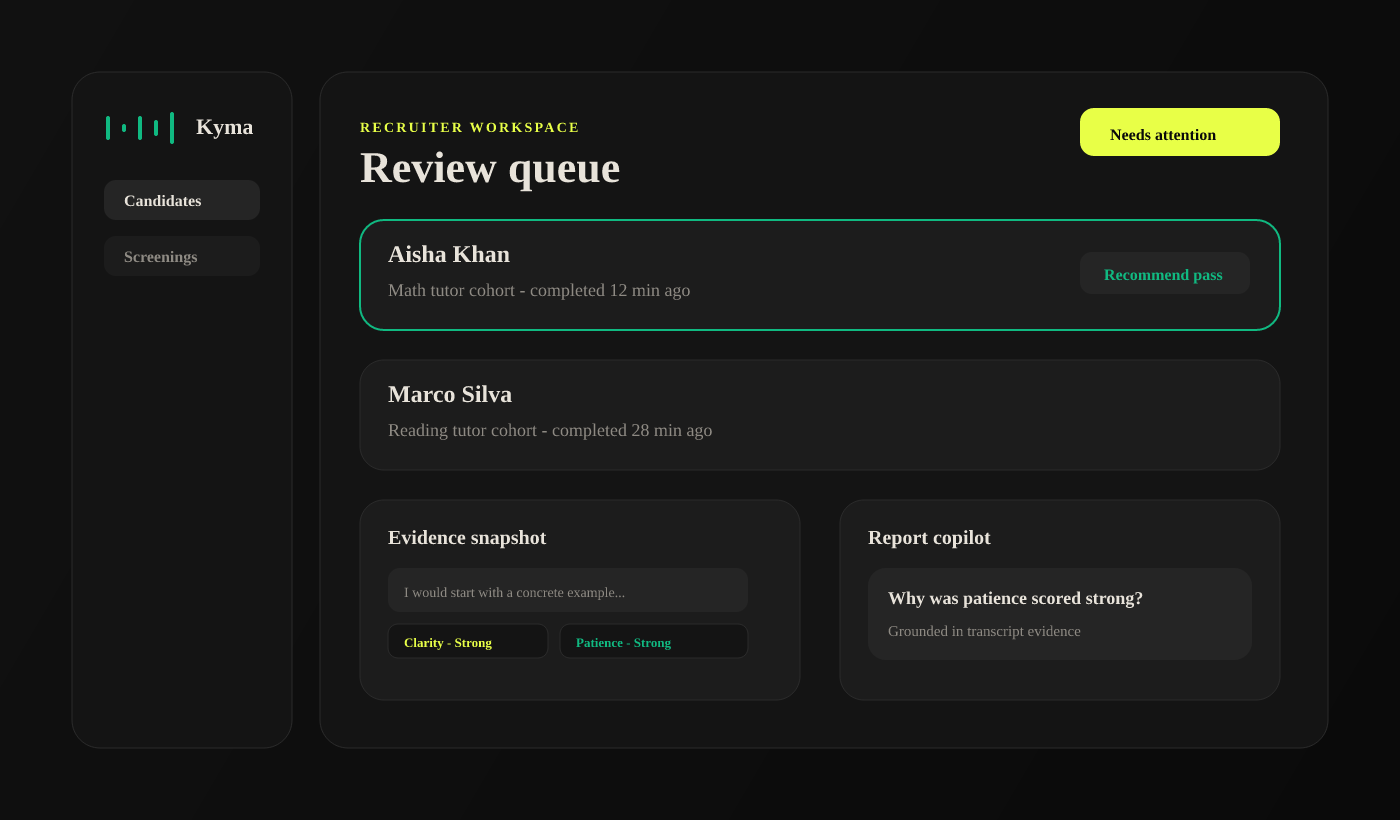
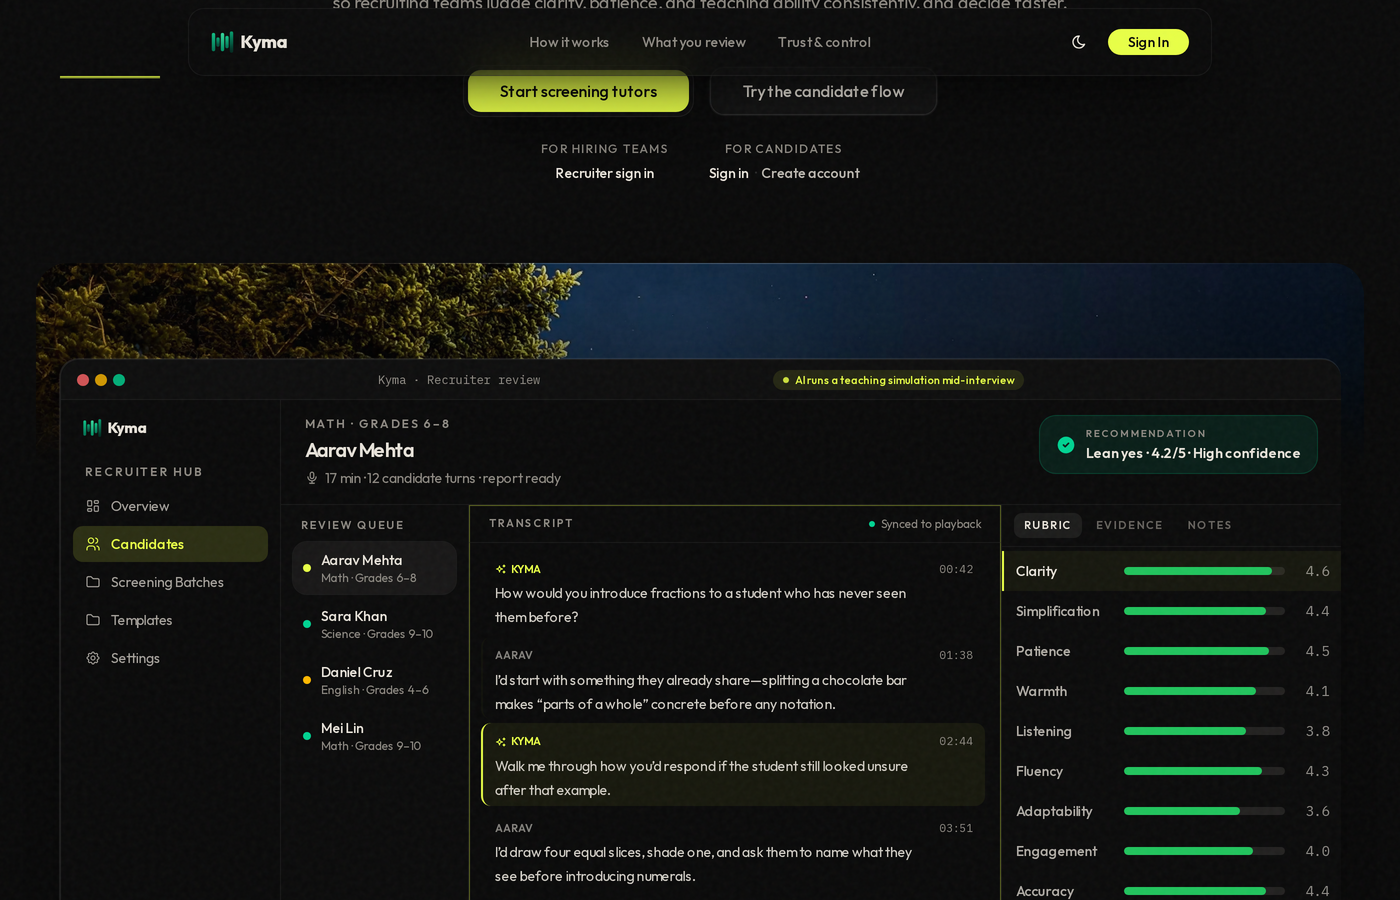
docs(readme): replace generated previews with production screenshots
Capture real UI from kyma.kitsunelabs.xyz via Playwright, remove fake
readme SVG sources, and drop README PNG generation from brand:export.

diff --git a/scripts/export-brand-pngs.ts b/scripts/export-brand-pngs.ts
@@ -1,6 +1,6 @@
 #!/usr/bin/env bun
 /**
- * Export brand SVG sources to PNG assets used by README, GitHub, and legacy fallbacks.
+ * Export brand SVG sources to PNG assets used by GitHub and legacy fallbacks.
  *
  * Usage: bun run scripts/export-brand-pngs.ts
  */
@@ -27,9 +27,6 @@ mkdirSync(brandDir, { recursive: true })
 
 const markSvg = join(brandDir, 'kyma-mark.svg')
 const ogSvg = join(brandDir, 'og-image.svg')
-const readmeHeroSvg = join(brandDir, 'readme-hero.svg')
-const readmeCandidateSvg = join(brandDir, 'readme-candidate.svg')
-const readmeRecruiterSvg = join(brandDir, 'readme-recruiter.svg')
 
 renderPng(markSvg, 512, join(publicDir, 'kyma-mark.png'))
 renderPng(markSvg, 16, join(publicDir, 'favicon-16x16.png'))
@@ -39,9 +36,6 @@ renderPng(markSvg, 180, join(publicDir, 'apple-touch-icon.png'))
 renderPng(markSvg, 192, join(publicDir, 'android-chrome-192x192.png'))
 renderPng(markSvg, 512, join(publicDir, 'android-chrome-512x512.png'))
 renderPng(ogSvg, 1200, join(publicDir, 'og-image.png'))
-renderPng(readmeHeroSvg, 1400, join(publicDir, 'readme-hero.png'))
-renderPng(readmeCandidateSvg, 1400, join(publicDir, 'readme-candidate.png'))
-renderPng(readmeRecruiterSvg, 1400, join(publicDir, 'readme-recruiter.png'))
 
 const faviconIco = join(publicDir, 'favicon.ico')
 const appFaviconIco = join(root, 'app', 'favicon.ico')
@@ -63,4 +57,4 @@ if (magick.status !== 0) {
 
 writeFileSync(appFaviconIco, readFileSync(faviconIco))
 
-console.log('Exported brand, README, and favicon assets from SVG sources.')
+console.log('Exported brand and favicon assets from SVG sources.')

diff --git a/README.md b/README.md
@@ -33,11 +33,21 @@ You send a candidate a link, they join a short guided interview in-browser, and 
 
 ## Product preview
 
-![Kyma hero preview](public/readme-hero.png)
-![Kyma candidate flow preview](public/readme-candidate.png)
-![Kyma recruiter dashboard preview](public/readme-recruiter.png)
+Screenshots captured from the live site at [kyma.kitsunelabs.xyz](https://kyma.kitsunelabs.xyz).
 
-SVG sources for these previews live in `public/brand/readme-hero.svg`, `public/brand/readme-candidate.svg`, and `public/brand/readme-recruiter.svg`. Regenerate PNGs with `bun run brand:export`.
+![Kyma marketing homepage with hero and product preview](public/readme-hero.png)
+
+_Homepage — voice-first tutor screening positioning and interactive product demo._
+
+![Kyma live interview transcript with teaching simulation](public/readme-candidate.png)
+
+_Candidate flow — AI-led interview transcript with mid-interview teaching simulation._
+
+![Kyma recruiter review workspace with rubric scores](public/readme-recruiter.png)
+
+_Recruiter dashboard — structured review with transcript sync, rubric scores, and recommendation._
+
+Regenerate screenshots after UI changes: `bun run readme:capture`
 
 ## Solutions (SEO landing pages)
 
@@ -59,7 +69,7 @@ Public persona pages for programmatic SEO and audience-specific positioning:
 ### Product walkthrough media
 
 - Demo video: _coming soon_
-- Screenshots: `public/brand/readme-hero.svg` (source) and exported `public/readme-hero.png`, `public/readme-candidate.png`, `public/readme-recruiter.png`
+- Screenshots: `public/readme-hero.png`, `public/readme-candidate.png`, `public/readme-recruiter.png` (captured from production via `bun run readme:capture`)
 
 ### Icon and brand assets
 
